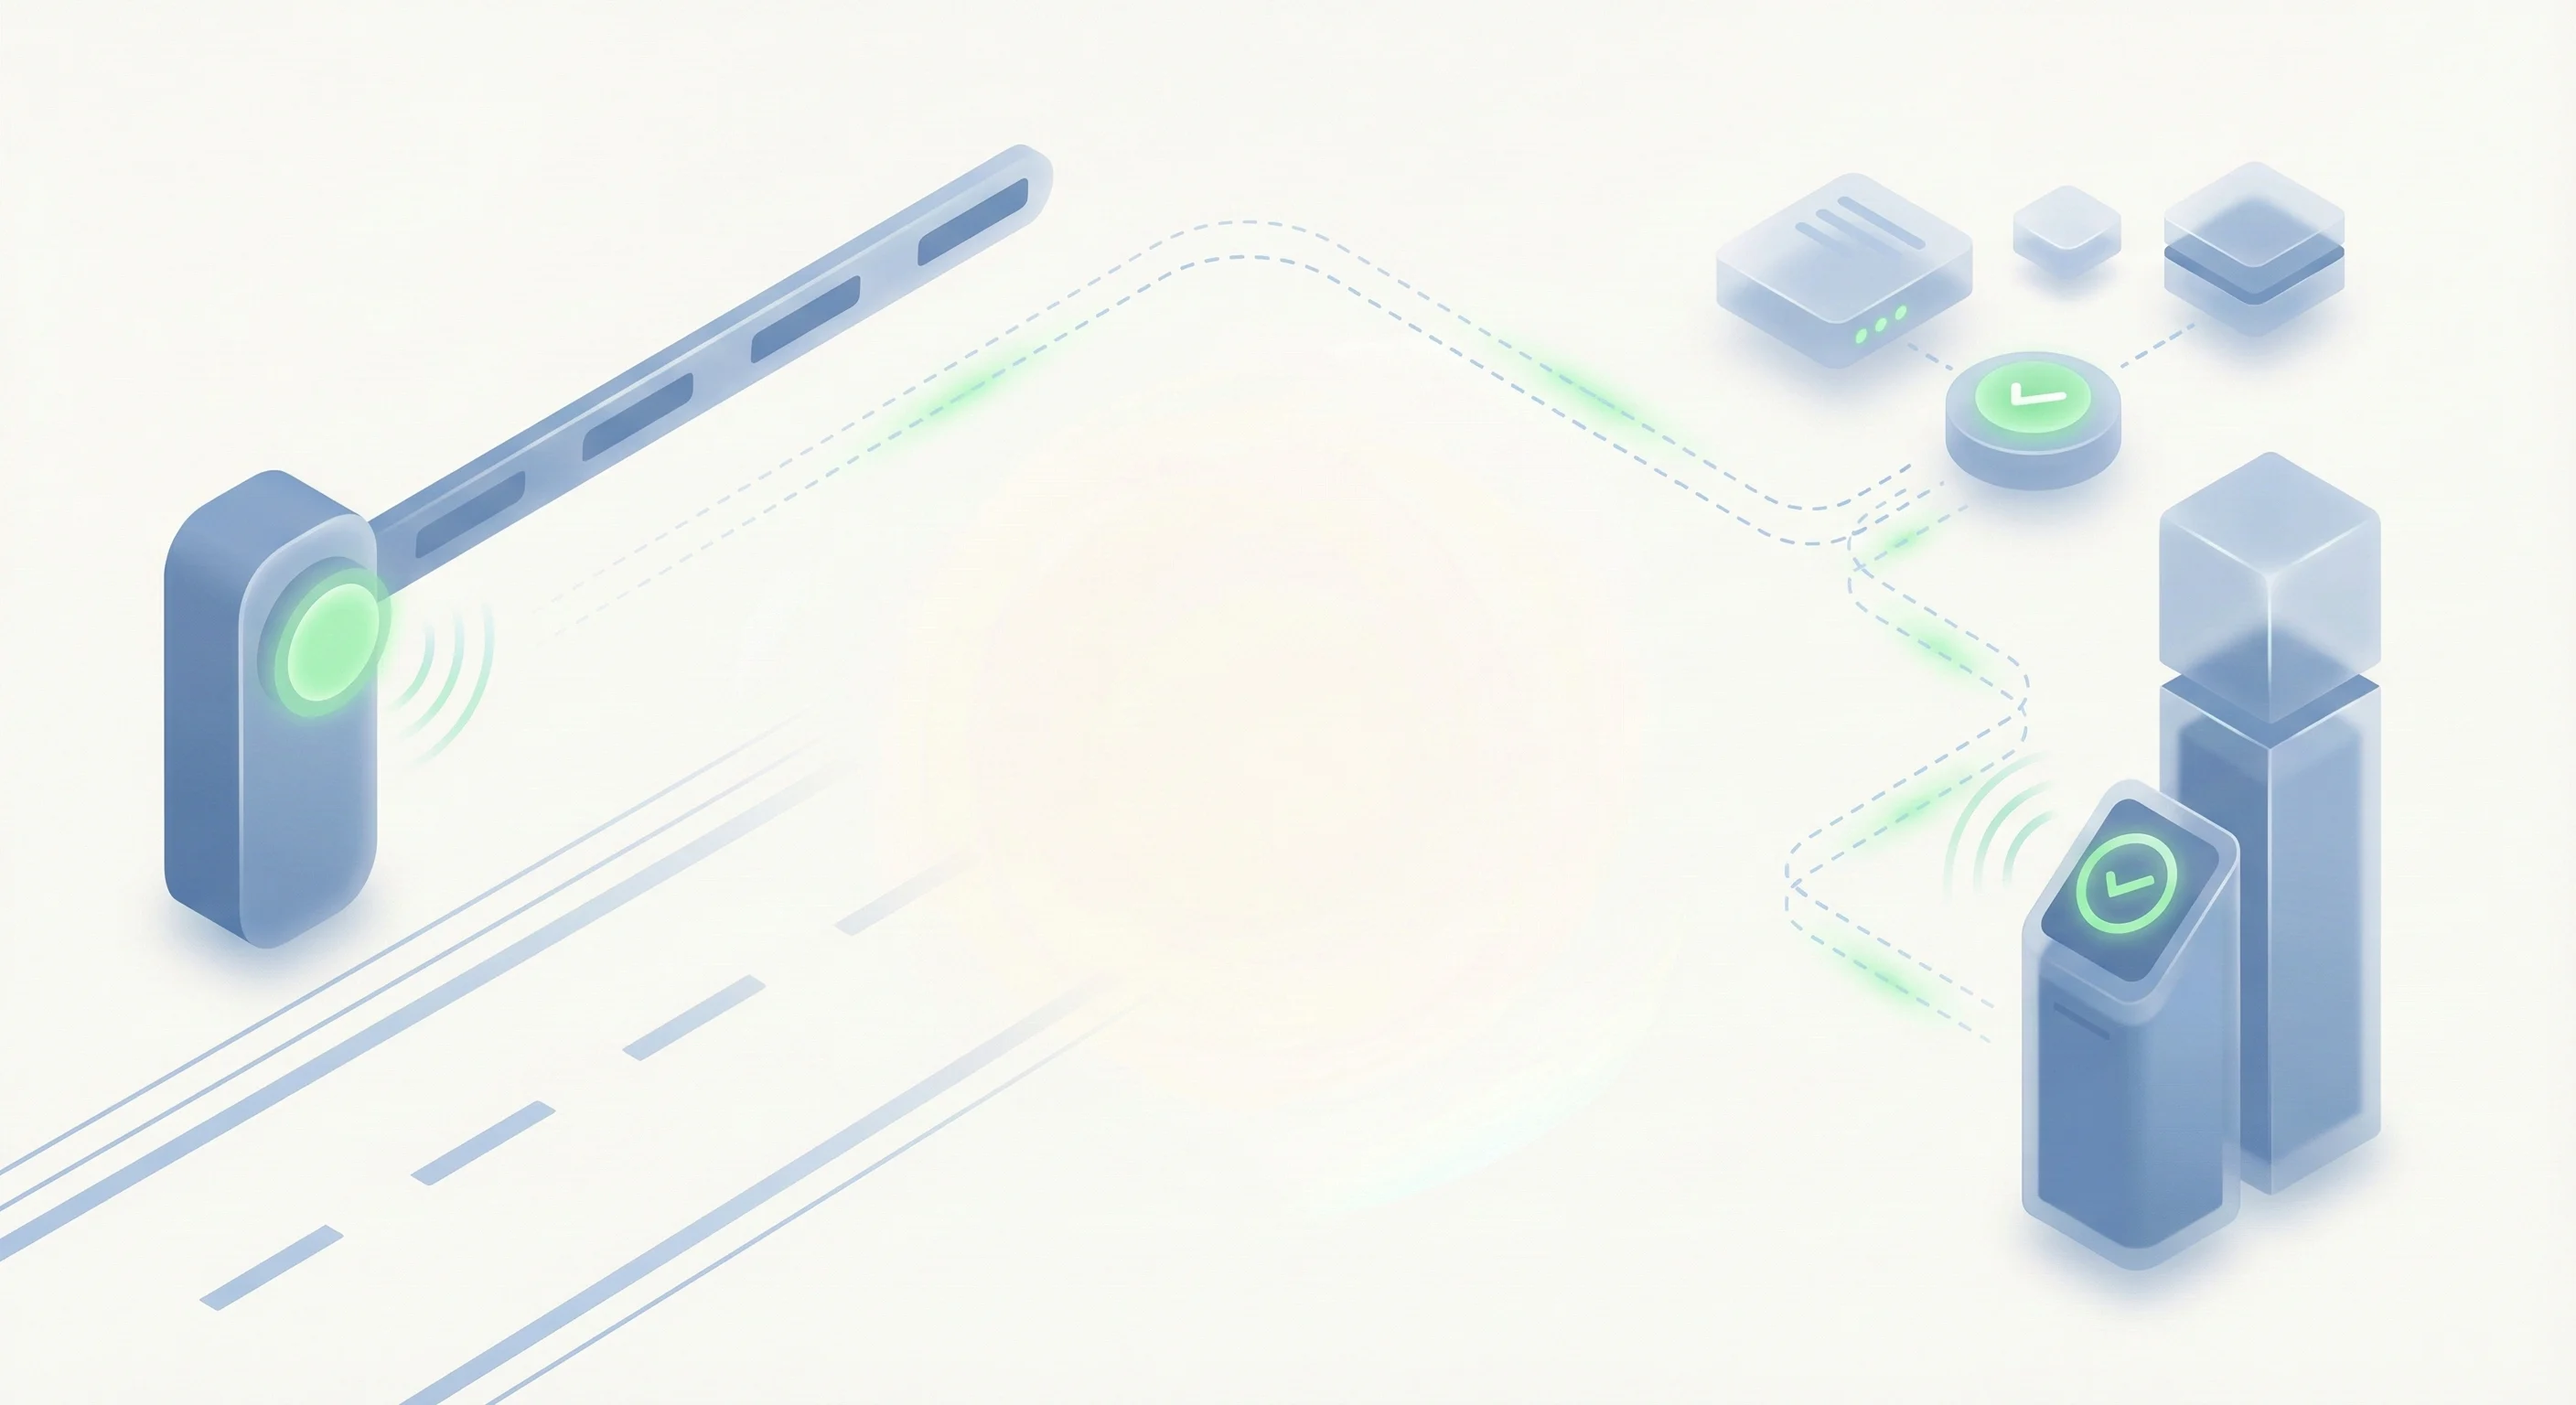
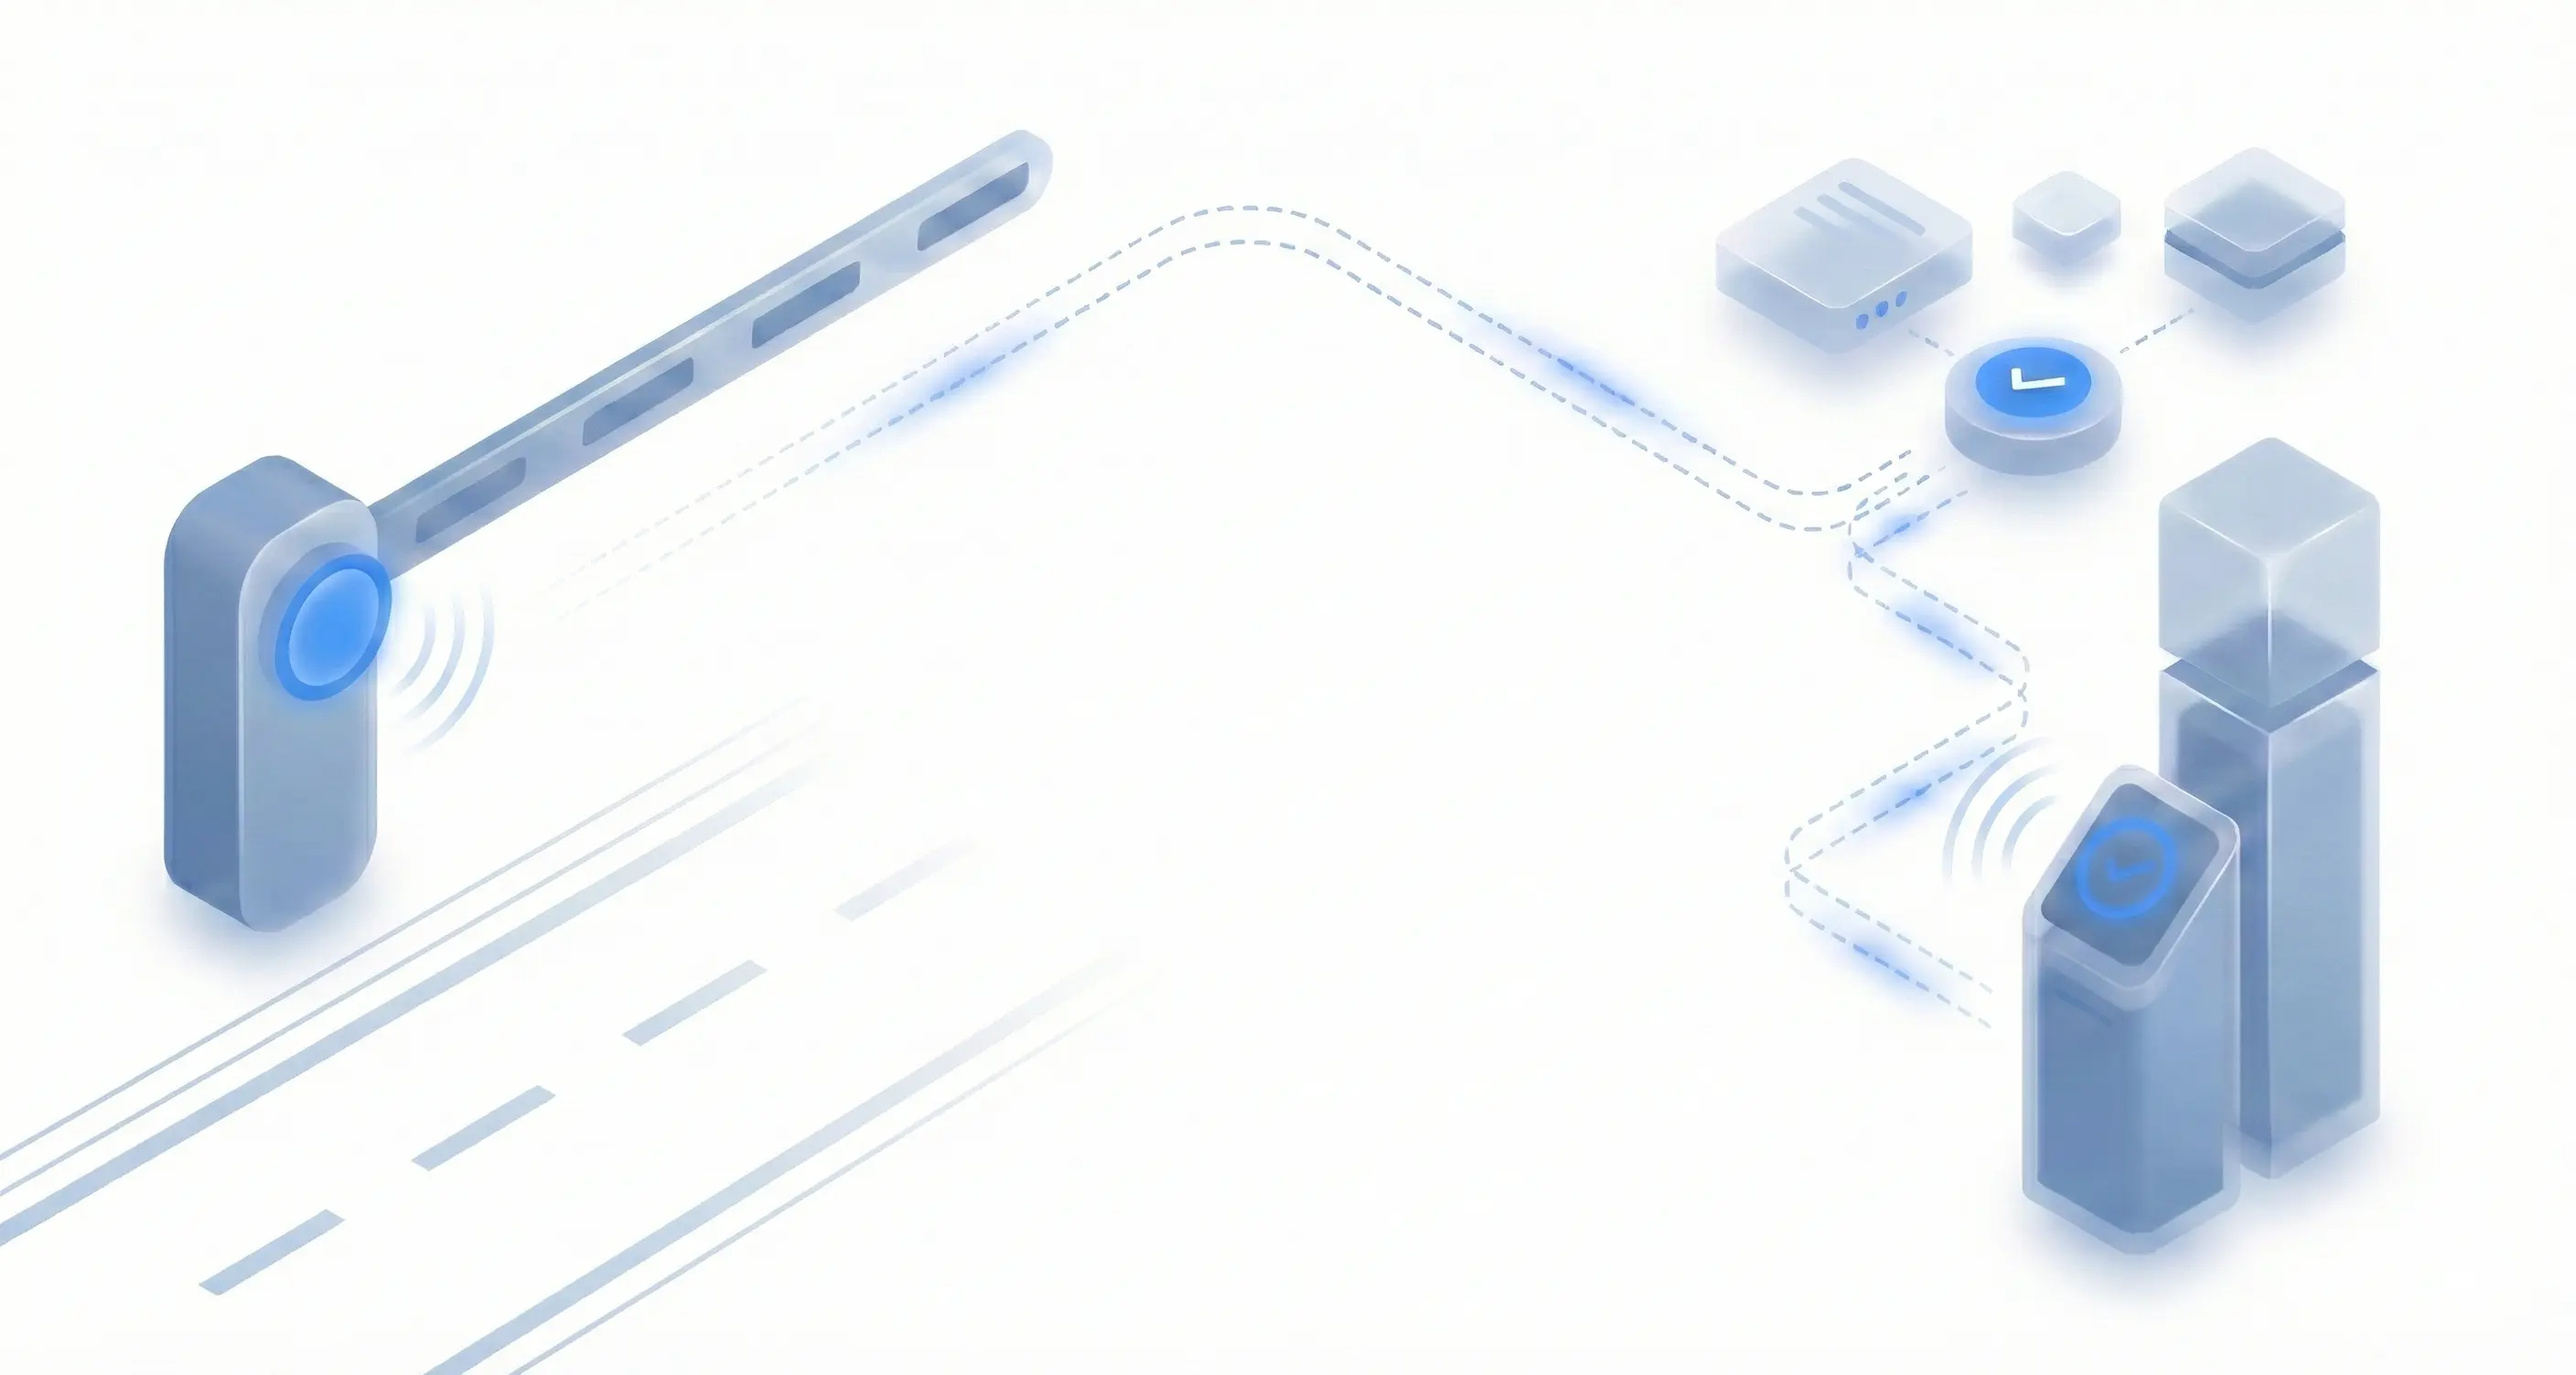
ssk

diff --git a/src/css/Anprs.css b/src/css/Anprs.css
@@ -18,7 +18,7 @@
         body {
             font-family: 'Segoe UI', system-ui, sans-serif;
             background: var(--bg)
-                            url('../assets/contentImages/background4.webp') center/cover no-repeat;
+                            url('../assets/contentImages/line2.png') center/cover no-repeat;
 ;
             color: var(--text);
             line-height: 1.6;
